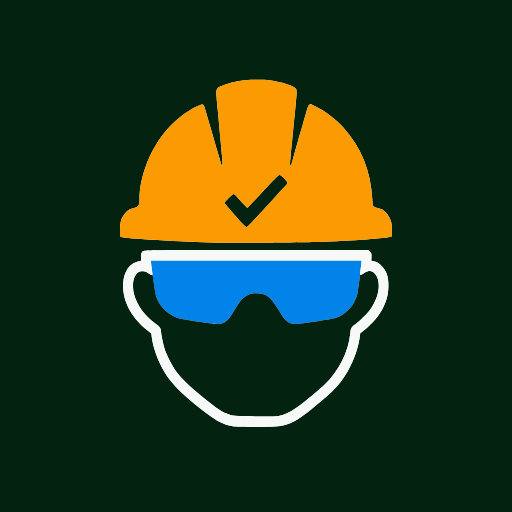
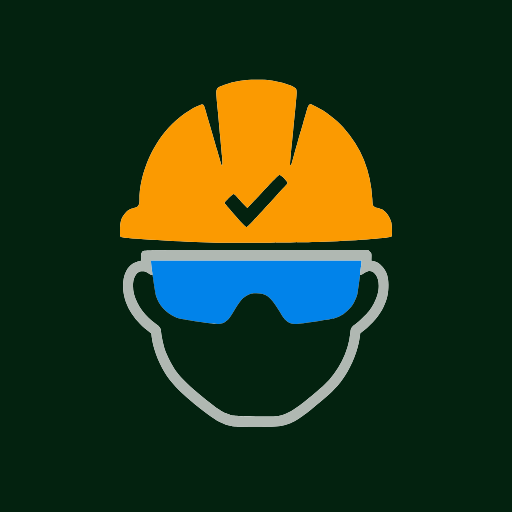
Ícone: rosto branco trocado por cinza
Contorno do rosto/armação passa de branco (#f7f8f8) para cinza
(--border-mid #B0B8B2). Demais cores do SVG inalteradas.

Changed region(s): [[0.2188, 0.4688, 0.7812, 0.8438]]

diff --git a/service-worker.js b/service-worker.js
@@ -4,7 +4,7 @@
 // CONFIGURAÇÃO DO SERVICE WORKER - Definições de Cache
 // =========================================================================
 
-const CACHE_NAME = "gentehonesta-v156";
+const CACHE_NAME = "gentehonesta-v157";
 
 // CONFIGURAÇÃO DO SERVICE WORKER - Lista de Recursos Core para Cache Inicial
 const urlsToCache = [

diff --git a/CLAUDE.md b/CLAUDE.md
@@ -359,7 +359,7 @@ o ícone fica automaticamente centralizado com o texto. `.btn--text .material-sy
 
 **`text-decoration` não propaga de forma confiável para filhos de um flex container:** `.pro-card__meta-item--inactive` (rodapé do card de profissional, `proFooterHTML()` em `feed.js`) risca só o texto do método de pagamento indisponível, nunca o ícone — mas o `text-decoration: line-through` está no span do RÓTULO (`.pro-card__meta-item__label`), não em `.pro-card__meta-item--inactive` diretamente. Colocar o risco no item (que é `display: inline-flex`) e tentar excluir o ícone com `text-decoration: none` nele NÃO funciona no Chrome: como `.pro-card__meta-item` é um flex container, o ícone (item flex) é "blockificado" e o navegador ignora esse `none`, riscando o ícone mesmo assim. A solução é aplicar o risco direto no span do texto, nunca herdado de um ancestral flex.
 
-**Service Worker:** incrementar `CACHE_NAME` em `service-worker.js` a cada deploy com mudanças de cache. Versão atual: `gentehonesta-v156`. Os arquivos CSS e JS são atualizados automaticamente pelo Network-First; o incremento serve para forçar limpeza de caches antigos.
+**Service Worker:** incrementar `CACHE_NAME` em `service-worker.js` a cada deploy com mudanças de cache. Versão atual: `gentehonesta-v157`. Os arquivos CSS e JS são atualizados automaticamente pelo Network-First; o incremento serve para forçar limpeza de caches antigos.
 
 **Seção "Detalhes profissionais" (`#panel-prodetails`):** todas as subseções seguem o mesmo padrão visual
 (sem cards/fundos individuais) — "O que você faz?", "Suas Habilidades" e "Padrão de Serviços" são
